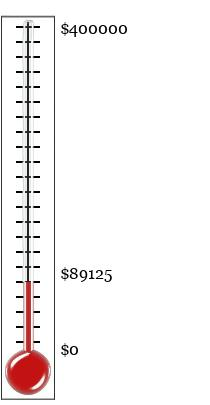
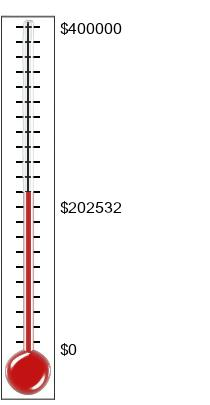
Merge pull request #133 from nayden/master
2026 fundraising update: Community goes Iridium!

Pull request: 2026 fundraising update: Community goes Iridium!

diff --git a/contributors.html b/contributors.html
@@ -109,7 +109,11 @@ On request we will provide a link to your website for donations of
 <EM><A HREF=activities.html#2026>2026 Supported Activities</A></EM>
 <UL>
 <LI> Iridium: $100,000 and above
+<UL>
+<LI><A HREF=donations.html>OpenBSD Community</A>
+</UL>
 <LI> Platinum: $50,000 to $100,000
+    <UL></UL>
 <LI> Gold: $25,000 to $50,000
 <UL>
 <LI>Eric Grosse</LI>
@@ -123,7 +127,6 @@ On request we will provide a link to your website for donations of
 </UL>
 <LI> Bronze: $5,000 to $10,000
 </UL>
-<HR>
 
 <HR>
 <A HREF=campaign2025.html><h4>2025 Fundraising Campaign</h4></A>